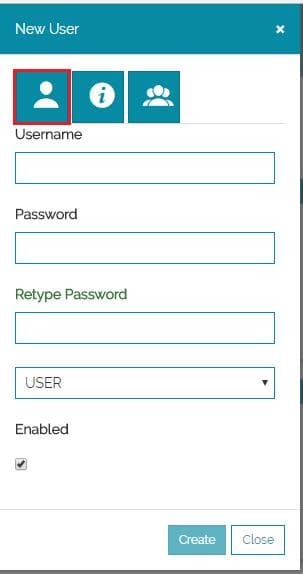
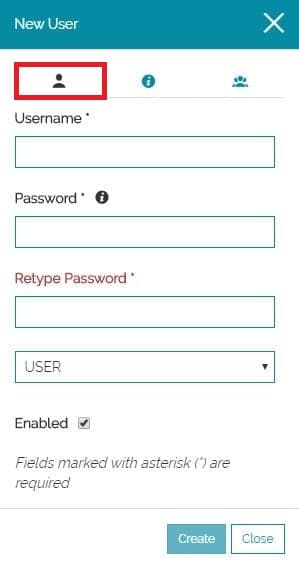
4643 Overview and user managing

Changed region(s): [[0.0, 0.0, 1.0, 1.0]]

diff --git a/docs/user-guide/managing-users.md b/docs/user-guide/managing-users.md
@@ -1,41 +1,70 @@
 # Managing Users
 ****************
 
-Creating New User
---------------
+Switching to Users Manager, the page displayed is the following:
 
-From the *Users* page:
+<img src="../img/managing-users/manager-page.jpg" class="ms-docimage"/>
 
-* **Click** on *New User* icon <img src="../img/managing-users/new-user.jpg" class="ms-docbutton"  style="max-height:20px;"/>. A pop up form will open
+In this page the *Admin* can:
 
-* **Fill** the first page of the form by assigning a *Username* and a *Password*
+* Perform a search among the existing users
 
-* **Select** from the list menu to assign a user or an admin role for the user
+<img src="../img/managing-users/search-users.jpg" class="ms-docimage" style="max-width:500px;"/>
 
-* Finally, **Check** the flag to enable the user
+* Create a new user with the *New User* button <img src="../img/button/new-user.jpg" class="ms-docbutton"/>
 
-<img src="../img/managing-users/popup-user.jpg" class="ms-docimage"  style="max-width:500px;"/>
-
-!!! note
-    Enabled users will have a green status icon under their profile otherwise will have a red status and will not be able to log in.
-
-     <img src="../img/managing-users/user-status.jpg" class="ms-docimage"/>
-
-* On the second page, **Compile** the form by providing further informations about the user.
-
-<img src="../img/managing-users/info-user.jpg" class="ms-docimage"  style="max-width:500px;"/>
-
-* On the third page, **Select** the groups which the users will belong to, then **Click** on *Create*.
-
-<img src="../img/managing-users/user-group.jpg" class="ms-docimage"  style="max-width:500px;"/>
-
-Editing a User
---------------
-
-From the *Users* page:
-
-* **Click** on the *Settings* icon in order to edit a user, you will be redirected to the pop up form where you can change the user details.
+* Edit or remove an existing one, through the *Edit user* <img src="../img/button/edit-icon.jpg" class="ms-docbutton"/> and *Remove* <img src="../img/button/delete-icon.jpg" class="ms-docbutton" /> buttons on each user card:
 
 <img src="../img/managing-users/edit-user.jpg" class="ms-docimage"/>
 
-* Or, **Click** simply on the <img src="../img/button/delete-icon.jpg" class="ms-docbutton" /> icon to delete the user.
+Both the *New User* <img src="../img/button/new-user.jpg" class="ms-docbutton"/> and the *Edit user* <img src="../img/button/edit-icon.jpg" class="ms-docbutton"/> buttons, open the *User editor* window, composed of three sections:
+
+* *User ID*
+
+* *Other information*
+
+* *Group membership*
+
+## User ID
+
+As soon as the *New User* window opens, the *User ID* section is displayed:
+
+<img src="../img/managing-users/popup-user.jpg" class="ms-docimage"/>
+
+In this section the Amin is allowed to:
+
+* Set the Username
+
+* Set the Password
+
+* Select the User type (User or Admin)
+
+* Choose if an User is *Enabled* or not. Enabled users will have a green status icon under their profile otherwise will have a red status and will not be able to log in.
+
+<img src="../img/managing-users/user-status.jpg" class="ms-docimage"/>
+
+!!! warning
+    Username and Password are the only mandatory fields. The password must contain at least 6 characters.
+
+## Other information
+
+Changing to *Other information* section, it display the following:
+
+<img src="../img/managing-users/other-info.jpg" class="ms-docimage"/>
+
+Here the *Admin* can set:
+
+* Email
+
+* Company
+
+* Notes
+
+## Group membership
+
+Through the last section of the window it is possible to manage the groups in which the user is aggregated:
+
+<img src="../img/managing-users/sel-groups.gif" class="ms-docimage"/>
+
+!!! note
+    The *everyone* group, set by default, it is impossible to remove since it must be attributed to all users.

diff --git a/docs/user-guide/managing-users-and-groups.md b/docs/user-guide/managing-users-and-groups.md
@@ -1,16 +1,18 @@
 # Managing Users and Groups
-------------------------------
+****************************
 
-From the *Home Page*:
+User and group management is only possible for administrator users:
 
-* **Click** on the *Account* icon then **Log in** as administrator.
+<img src="../img/managing-users-and-groups/account.jpg" class="ms-docimage" style="max-width:600px"/>
 
-<img src="../img/managing-users-and-groups/account.jpg" class="ms-docimage"/>
-
-* **Click** on the *Manager Menu* then on *MANAGE ACCOUNTS*.
+Once logged ad Admin, the *Manage Accounts* button appears in [Homepage](home-page.md):
 
 <img src="../img/managing-users-and-groups/manager.jpg" class="ms-docimage"/>
 
-You will be addressed to a new page in which the <span style="color:red">Manage Users</span> and the <span style="color:blue">Manage Groups</span> sections allow you to create new users and groups or to modify them, if already existing.
+With a click on the *Manage Accounts* button, the *Account Manager* opens:
 
 <img src="../img/managing-users-and-groups/manager-page.jpg" class="ms-docimage"/>
+
+In this page it is possible to switch between [Manage Users](managing-users.md) or [Manage Groups](managing-groups.md) sections:
+
+<img src="../img/managing-users-and-groups/man-users-groups.jpg" class="ms-docimage" style="max-width:200px"/>
